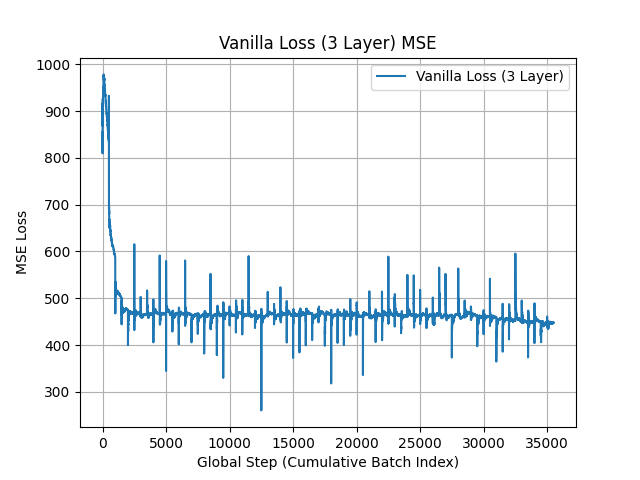
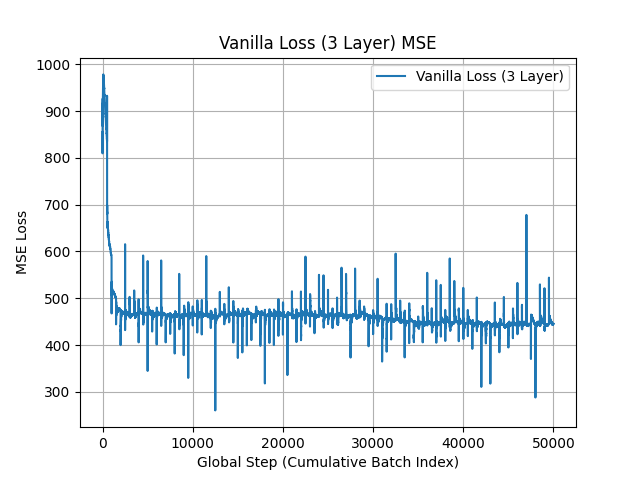
generated plots

diff --git a/plot_losses.py b/plot_losses.py
@@ -3,13 +3,38 @@ import numpy as np
 import csv
 import matplotlib.pyplot as plt
 
-tropical_loss_3_layer = pd.read_csv('15_exp/train/train_FloydWarshallDataset_tropical_0.0001_100_20251028_150142_relu.csv').loc[:, 'loss']
-tropical_loss_1_layer = pd.read_csv('15_exp/train/train_FloydWarshallDataset_tropical_0.0001_100_20251027_105301_relu.csv').loc[:, 'loss']
+tropical_loss_3_layer = pd.read_csv('15_exp/train/train_FloydWarshallDataset_tropical_0.0001_100_20251029_132903_relu.csv').loc[:, 'loss']
+tropical_loss_1_layer = pd.read_csv('15_exp/train/train_FloydWarshallDataset_tropical_0.0001_100_20251023_195210_relu.csv').loc[:, 'loss']
 
-vanilla_loss_3_layer = pd.read_csv('15_exp/train/train_FloydWarshallDataset_vanilla_0.0001_100_20251028_150131_relu.csv').loc[:, 'loss']
+vanilla_loss_3_layer = pd.read_csv('15_exp/train/train_FloydWarshallDataset_vanilla_0.0001_100_20251029_133109_relu.csv').loc[:, 'loss']
 vanilla_loss_1_layer = pd.read_csv('15_exp/train/train_FloydWarshallDataset_vanilla_0.0001_100_20251027_105302_relu.csv').loc[:, 'loss']
 
-
+# print(len(tropical_loss_3_layer), len(tropical_loss_1_layer))
+# plt.figure()
+# x_axis = np.arange(len(tropical_loss_3_layer))
+# plt.plot(x_axis, tropical_loss_3_layer, color='blue', label='3 Layer Tropical loss')
+# plt.plot(x_axis, tropical_loss_1_layer, color='red', label='1 layer Tropical loss')
+# x_name = 'Global Step (Cumulative Batch Index)'
+# y_name = 'MSE Loss'
+# plt.xlabel(x_name)
+# plt.ylabel(y_name)
+# plt.title("MSE Loss of Tropical Transformers")
+# plt.grid(True)
+# plt.legend()
+# plt.savefig(f'15_exp/plots/tropicallayerlosscomparison.png')
+#
+# plt.figure()
+# x_axis = np.arange(len(vanilla_loss_3_layer))
+# plt.plot(x_axis, vanilla_loss_3_layer, color='blue', label='3 Layer Vanilla loss')
+# plt.plot(x_axis, vanilla_loss_1_layer, color='red', label='1 layer Vanilla loss')
+# x_name = 'Global Step (Cumulative Batch Index)'
+# y_name = 'MSE Loss'
+# plt.xlabel(x_name)
+# plt.ylabel(y_name)
+# plt.title("MSE Loss of Vanilla Transformers")
+# plt.grid(True)
+# plt.legend()
+# plt.savefig(f'15_exp/plots/vanillalayerlosscomparison.png')
 name_dict = {
     'Tropical Loss (3 Layer)': tropical_loss_3_layer,
     'Vanilla Loss (3 Layer)': vanilla_loss_3_layer,
